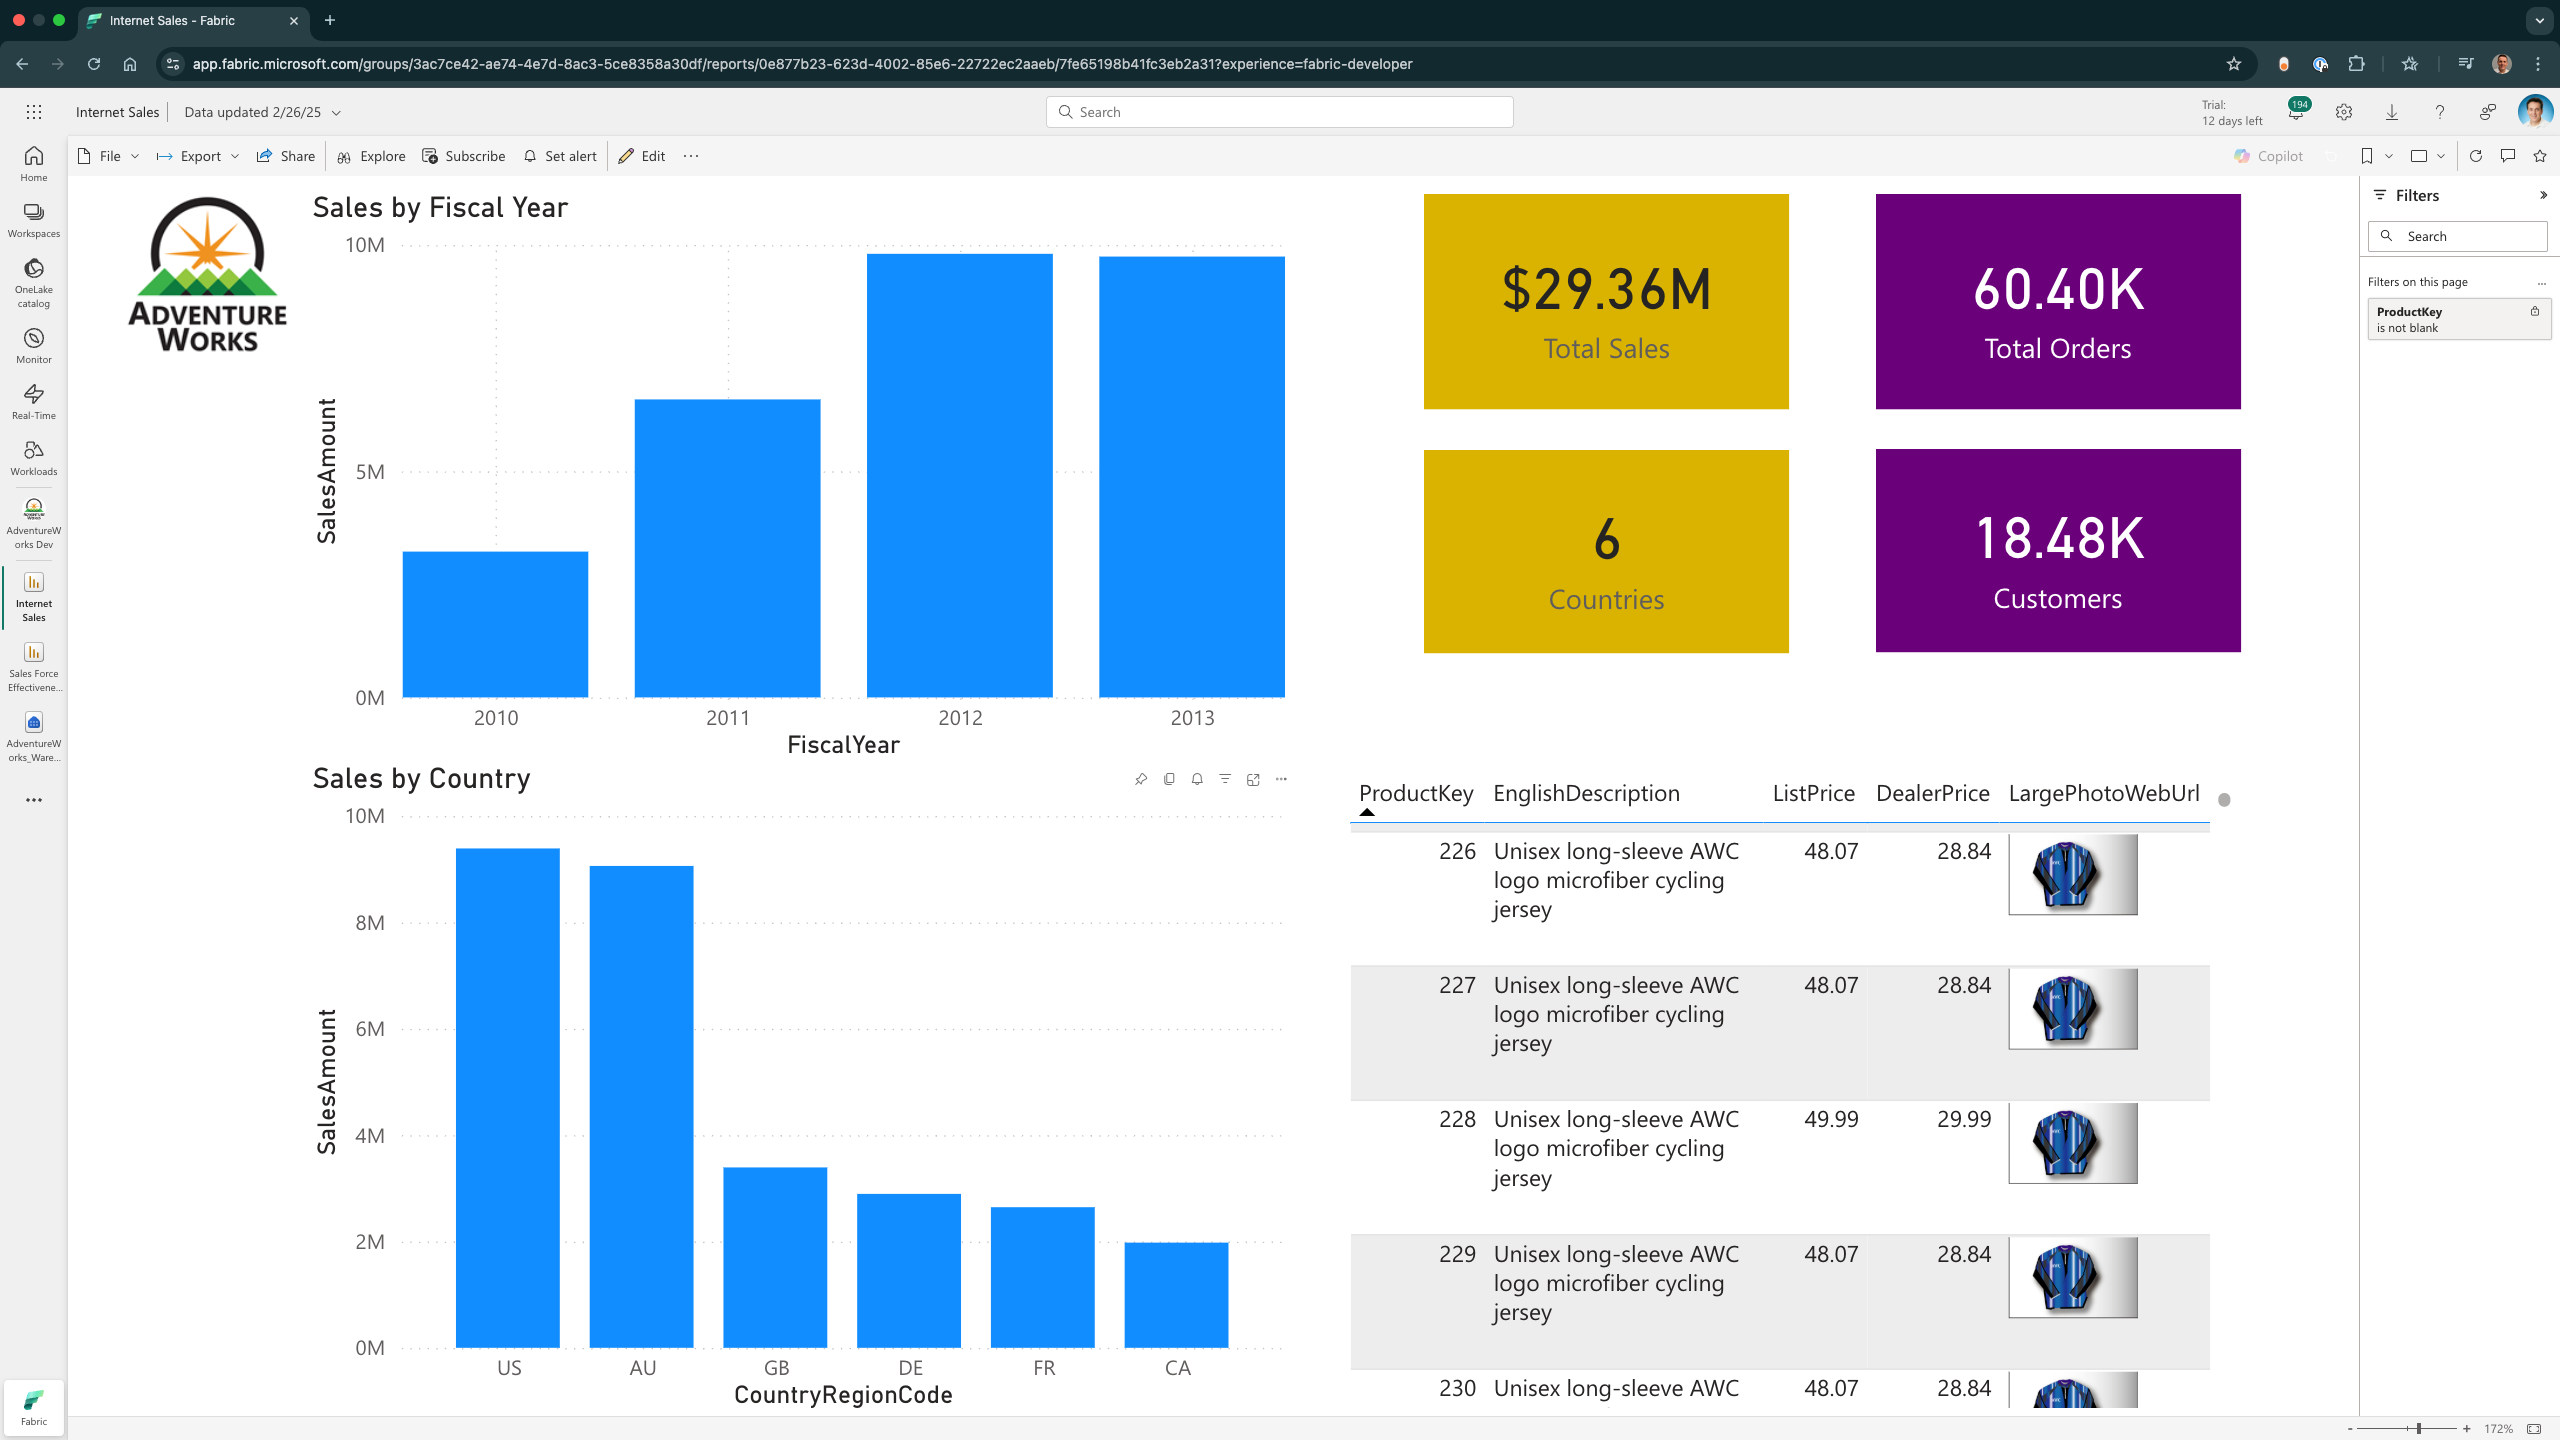
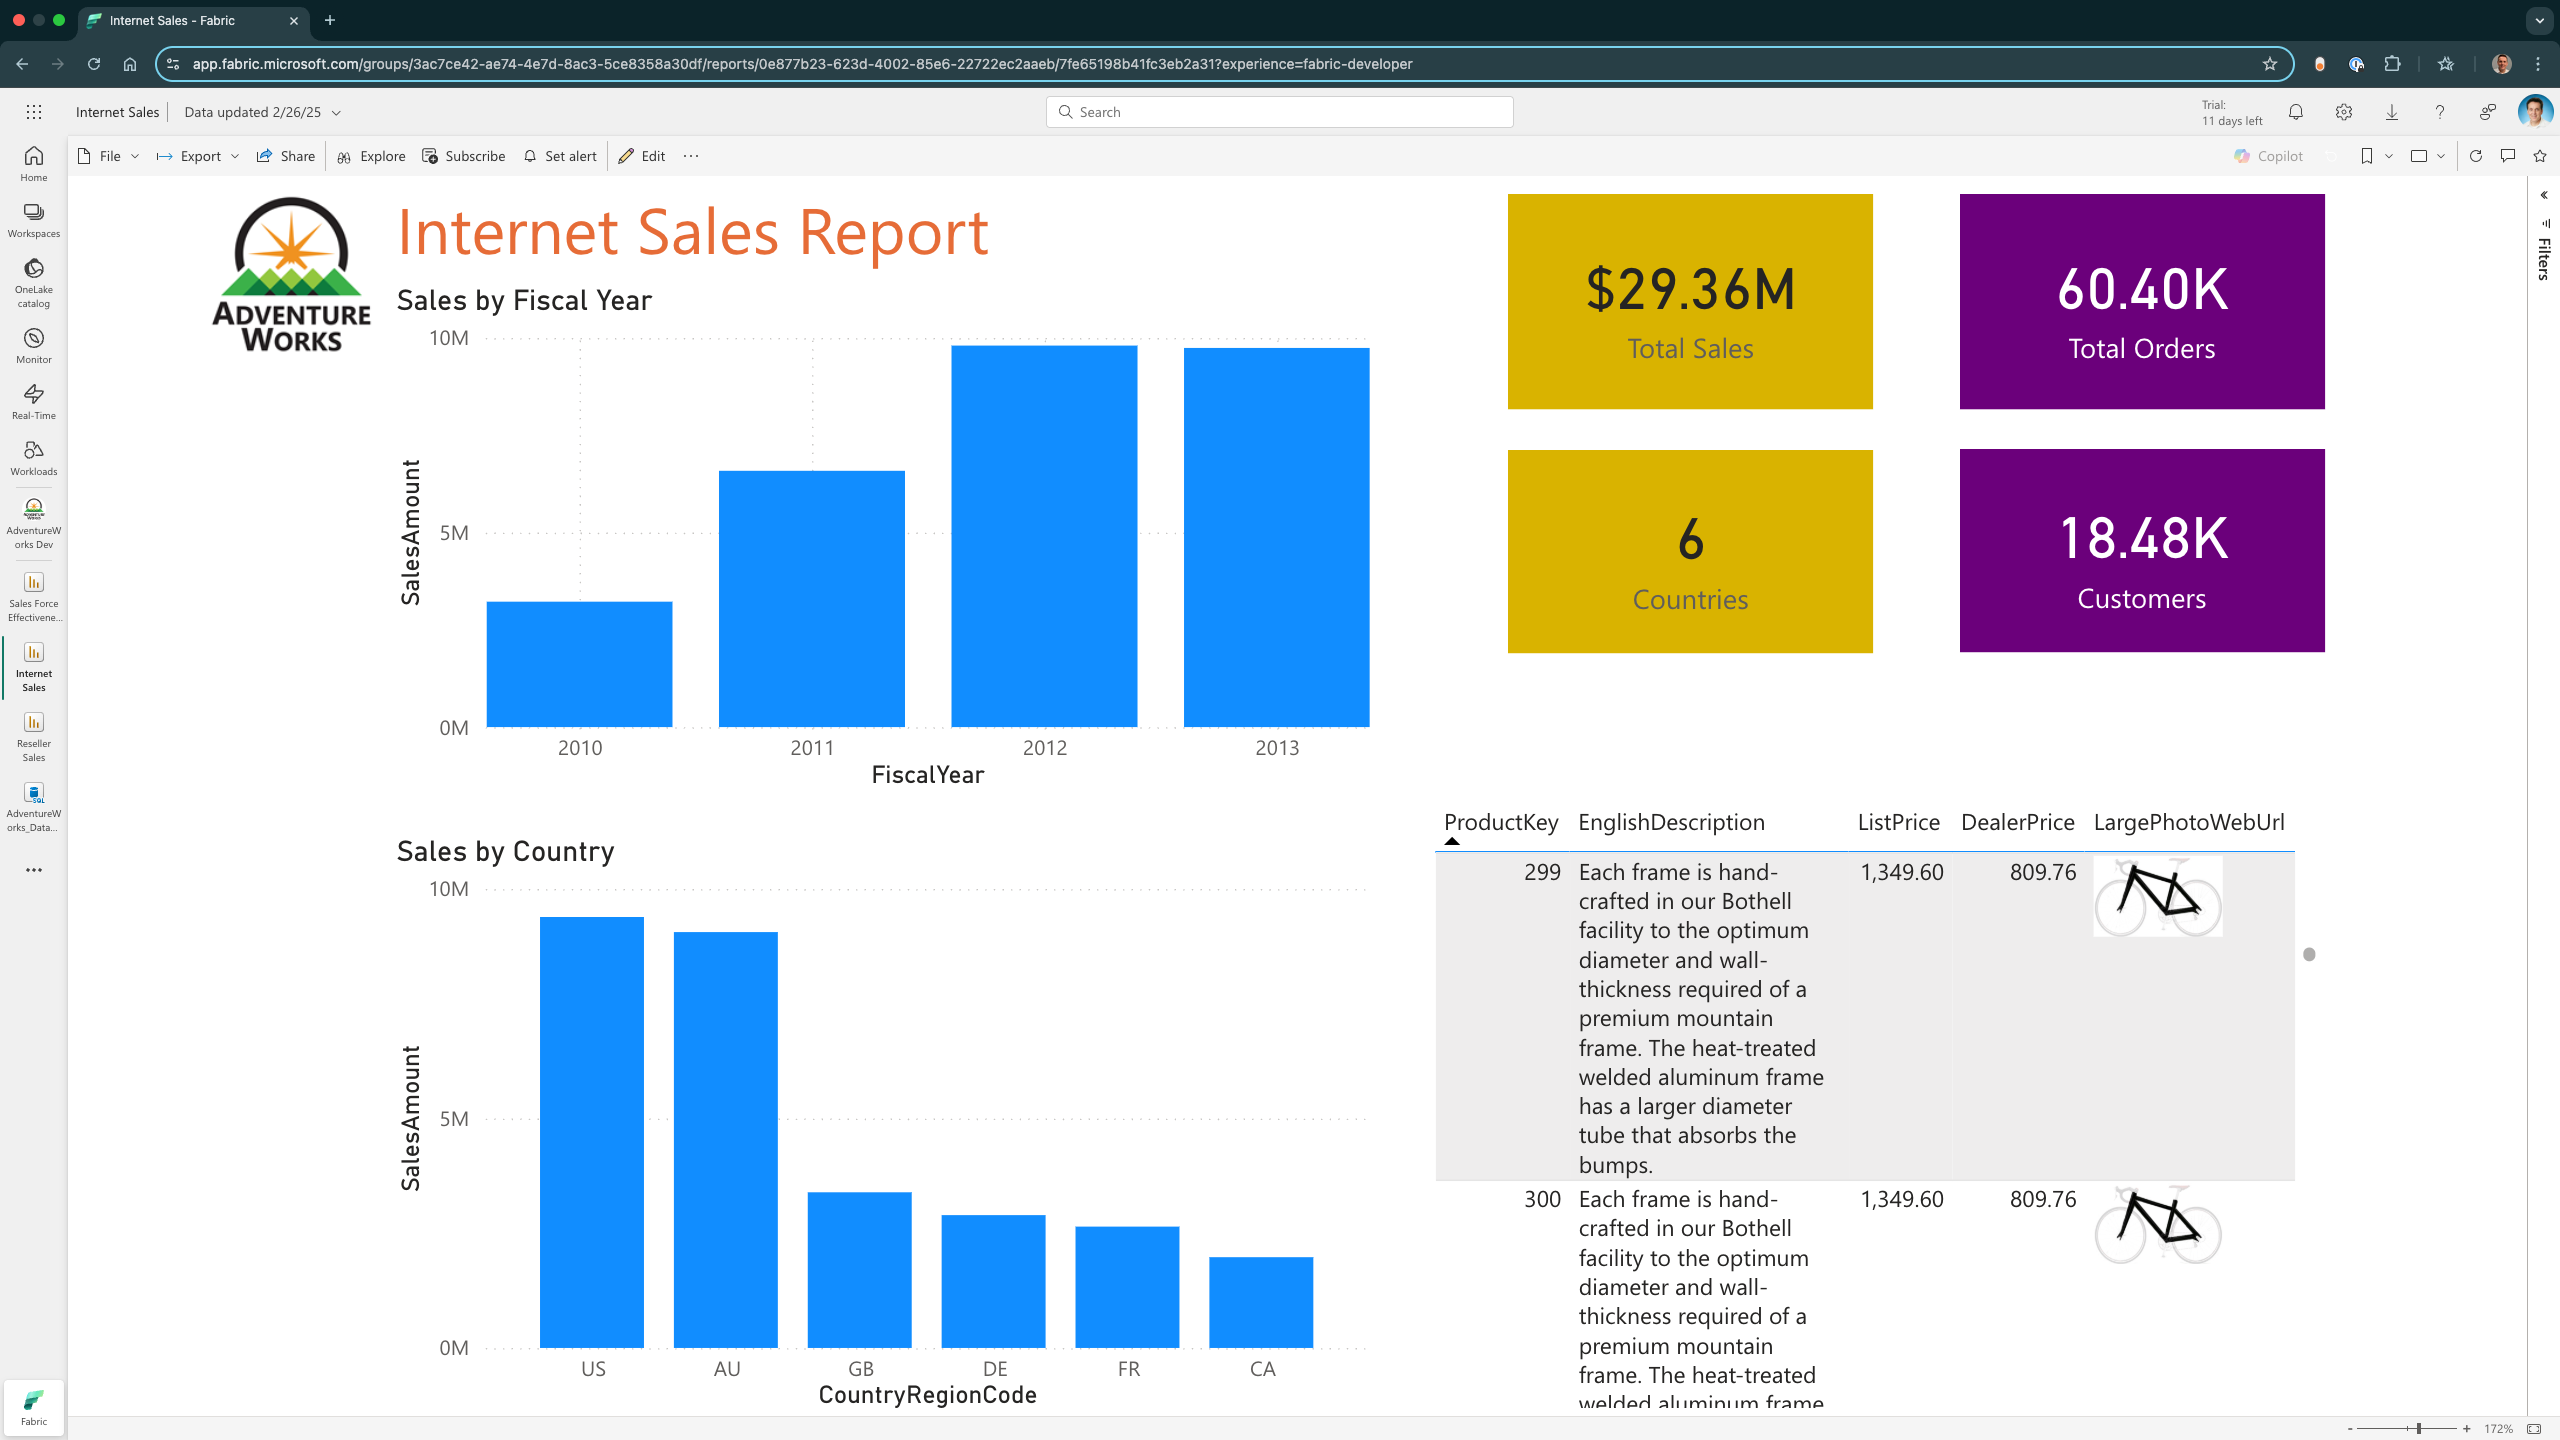
Added gold layer architecture

diff --git a/Readme.md b/Readme.md
@@ -87,10 +87,18 @@ In the Medallion Architecture, the **_SILVER_** layer is where data undergoes cl
 - Performs data type conversion
 - Executes nullable transformations
 
+The `DimEmployee` table as viwed in the Microsoft Fabric database explorer view displays some examples of the the successful column transformations:
+
+![Fabric AdventureWorks Database Explorer](resources/fabric-adventureworks-database-explorer.png "AdventureWorks SQL Database Example Column Transformations in Microsoft Fabric")
+**Fabric AdventureWorks SQL Database Explorer**
+
 ### Step 2.4 (workaround)
 A `Data pipeline` named `Copy Bronze to Silver` was developed which contains three separate activities. First, a parameter array of all target **_SILVER_** layer tables in the `Lakehouse` (prefixed `slv_`) is used to feed a `Copy_table` activity to copy each table to the `Warehouse`. Second, upon success, all the transient tables (prefixed `slv_`) in the `Lakehouse` are deleted by calling `notebooks/Drop Lakehouse Tables.ipynb`. This avoids duplicate data and unnecessary storage costs in OneLake. The third and final step refreshes the default `Semantic model` by calling `notebooks/Refresh Warehouse Semantic Model.ipynb` which uses the Fabric API.
 
-All the code for this step is included in this repo and can be imported into your workspace and executed to perform the required data processing.
+All the code for this step is included in this repo and can be imported into your workspace and executed to perform the required data processing. The following diagram illustrates the flow:
+
+![Fabric AdventureWorks Data Pipline](resources/fabric-adventureworks-data-pipeline.png "AdventureWorks Data Pipeline Flow in Microsoft Fabric")
+**Fabric AdventureWorks Data Pipeline Flow**
 
 ### Step 2.5
 We must now create the primary and foreign key relationships in the **_SILVER_** layer to help achieve its' purpose by:
